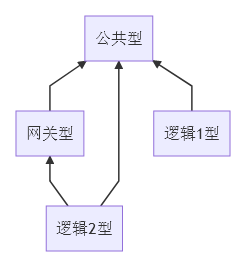
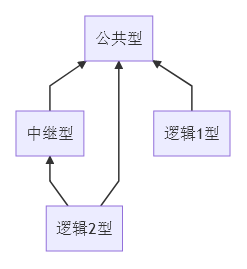
更新文档

diff --git a/services/gateway/intranet_node.go b/services/gateway/intranet_node.go
@@ -5,6 +5,8 @@ import (
 	"github.com/fananchong/gotcp"
 )
 
+// TODO: 移植框架层
+
 // IntranetNode : 登录玩家类
 type IntranetNode struct {
 	gotcp.Session

diff --git a/services/gateway/user.go b/services/gateway/user.go
@@ -5,6 +5,8 @@ import (
 	"github.com/fananchong/gotcp"
 )
 
+// TODO: 移植框架层
+
 // User : 登录玩家类
 type User struct {
 	gotcp.Session

diff --git a/doc/规范-服务器架构.md b/doc/规范-服务器架构.md
@@ -1,6 +1,6 @@
 ## 服务器类型
 
-功能上分，三类服务器：
+从`连接关系`上分，有三类服务器：
 
 - 公共型
   - 其他服务器都会连接公共型
@@ -8,15 +8,19 @@
     - 管理服务器
     - 数据库服务器（ Redis ）
 
-- 网关型
-  - 需要消息中继的，会连接网关
-  - 通过网关实现以下消息传递：
-    - Client(s) <-> Gateway <-> Node
-    - Node <-> Gateway <-> Other Node(s)
+
+- 中继型
+  - 中继消息的服务器
+  - 目前有：
+    - 网关， Client(s) <-> 中继型 <-> Node
+    - 中继服务器， Node <-> 中继型 <-> Other Node(s)
+  - 网关、中继服务器可以简化合进一个进程，亦可拆分
+  - 本实作将网关、中继服务器合为 1 个进程，并称为 Gateway
+
 
 - 逻辑型
   - 提供某种功能的逻辑服务器
-  - 需要消息中继，则会连接网关
+  - 需要消息中继，则会连接中继型服务器
 
 
 ## 拓扑图
@@ -31,4 +35,5 @@
 - 横向扩展
 - 简单连接
   - 单向，非网状
-  - 网关起桥梁作用，中继消息
+  - 中继型起桥梁作用
+- 逻辑型接入简单

diff --git a/doc/assets/topology.md b/doc/assets/topology.md
@@ -1,7 +1,7 @@
 ```mermaid
 graph BT
-网关型-->公共型
+中继型-->公共型
 逻辑2型-->公共型
-逻辑2型-->网关型
+逻辑2型-->中继型
 逻辑1型-->公共型
 ```
